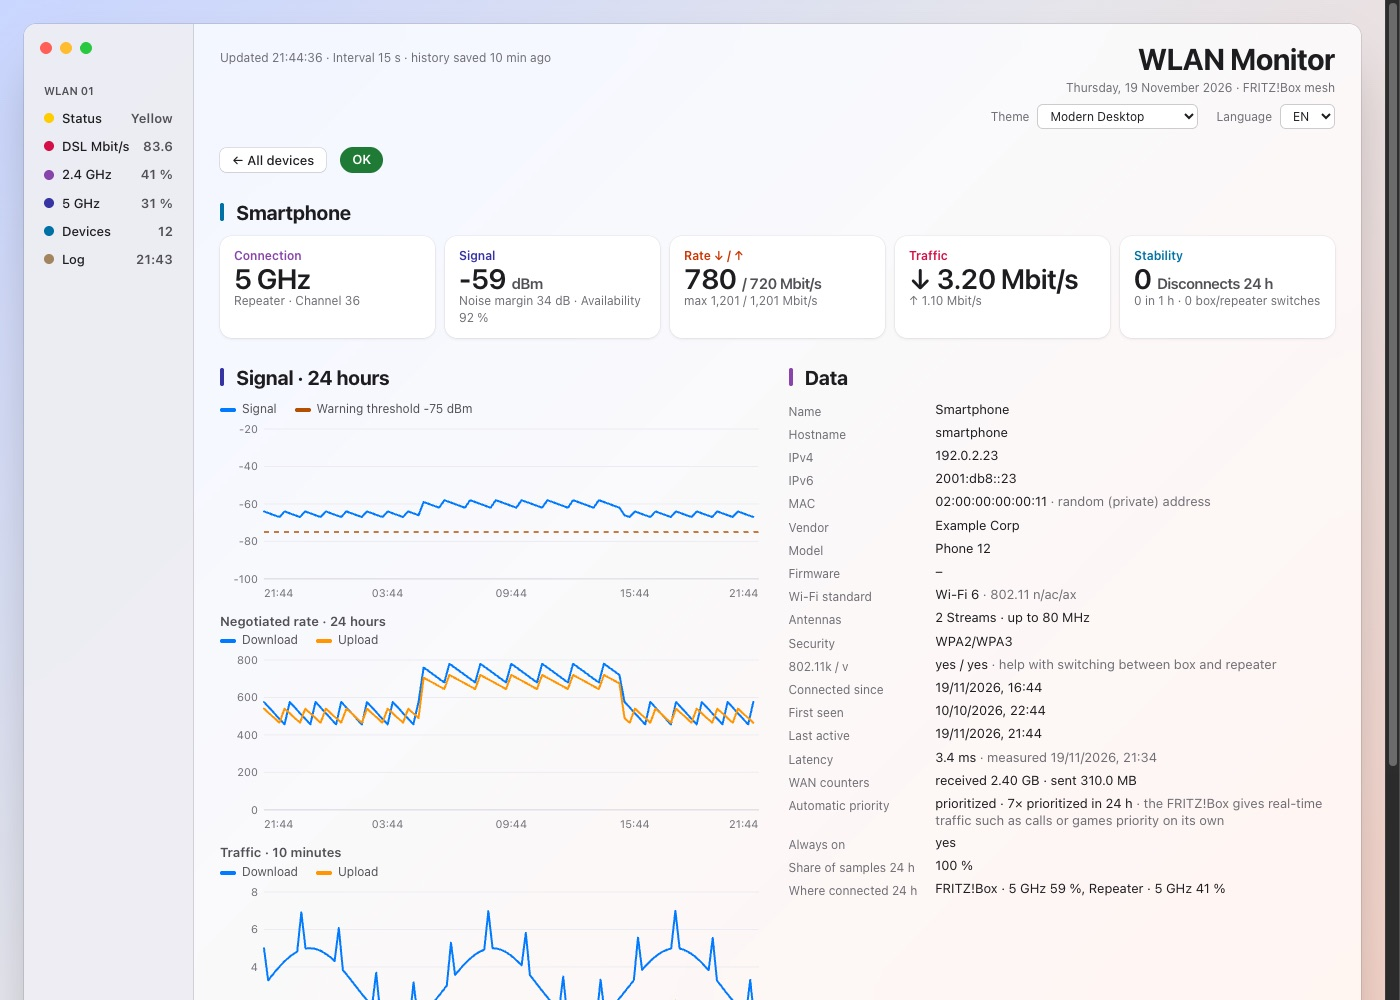
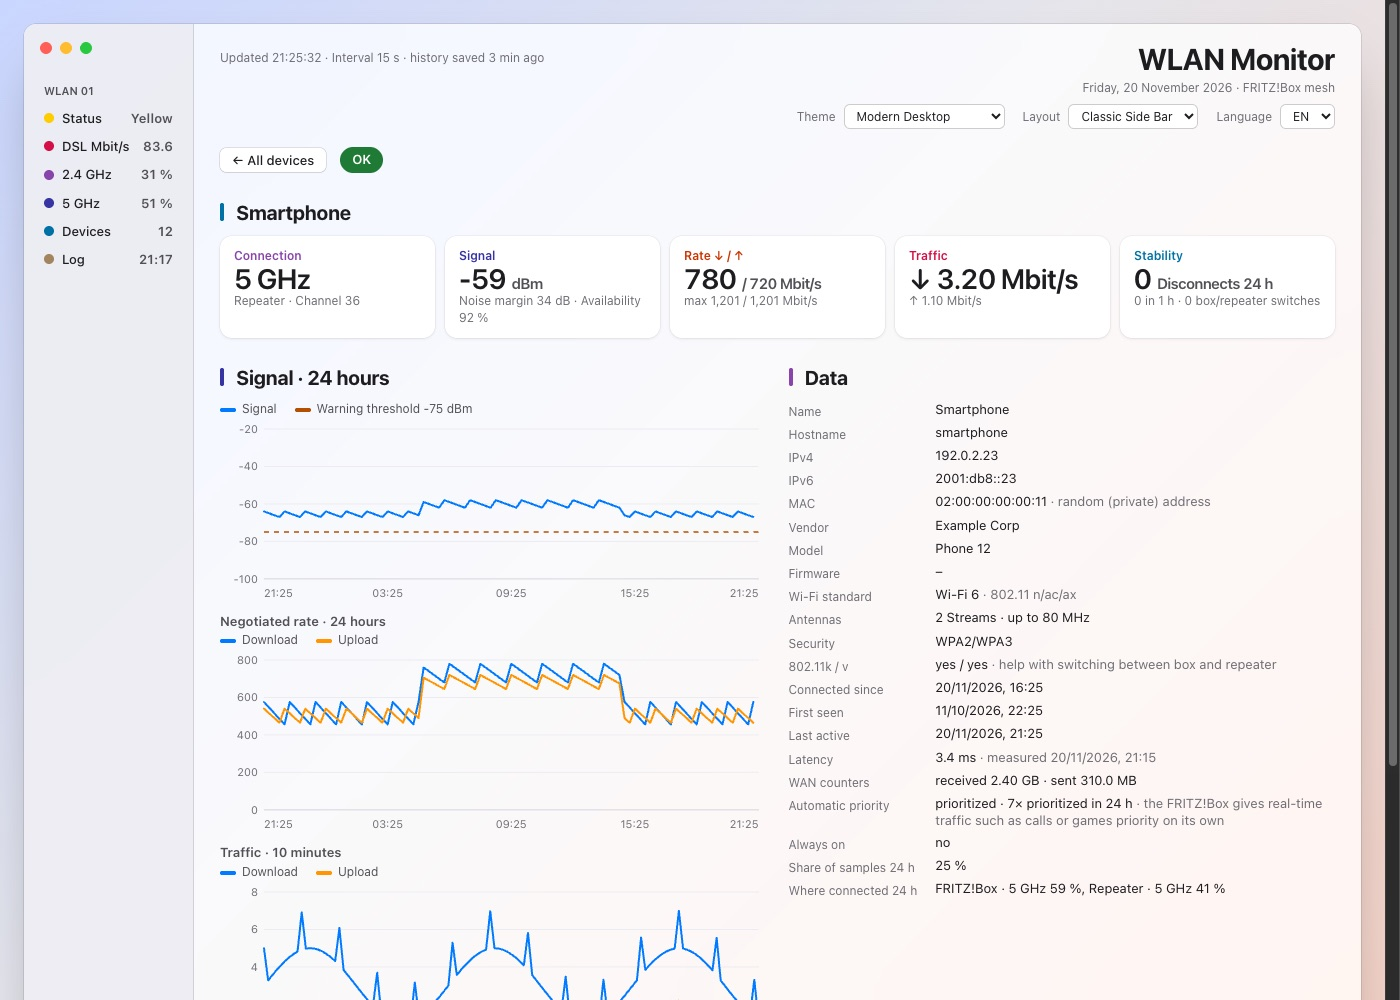
Update README screenshots for the layout menu
The screenshots now show the layout menu and the "since" time of alerts,
and a new image presents six of the 20 layouts. The privacy section
lists alerts.json among the local files that are never committed.

diff --git a/README.md b/README.md
@@ -42,6 +42,8 @@ replaces the theme's side bar ornaments with its own form for the status values;
 stay with the theme. A layout file starts with `/* layout: Name; de: German name */` and puts its rules
 under `html[data-layout="<id>"]:not(#_)`; the `:not(#_)` lifts them above the theme rules.
 
+![Six of the 20 layouts with the Modern Desktop theme (demo data)](assets/screenshots/layouts.jpg)
+
 The page is available in English and German, with English as the default. A language menu next
 to the theme menu lets you switch, and your choice is remembered per browser.
 
@@ -219,7 +221,7 @@ or weak-signal alerts. The file is git-ignored because it contains MAC addresses
 ## Private data — never commit
 
 The collector and the dashboard write MAC addresses, device names and network events into
-this directory (`*.csv`, `*.jsonl`, `*.log`, `acks.json`, `config.local.json`). They are excluded via
+this directory (`*.csv`, `*.jsonl`, `*.log`, `acks.json`, `alerts.json`, `config.local.json`). They are excluded via
 `.gitignore`, as is the password file. Python standard library only, no dependencies.
 
 ## License
